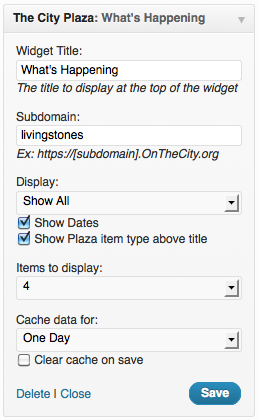
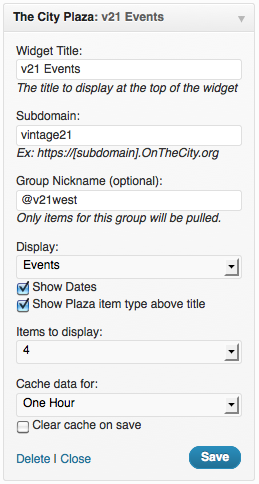
boom

diff --git a/thecity-plugins/wordpress/index.html b/thecity-plugins/wordpress/index.html
@@ -55,6 +55,11 @@ The title above this widget on your website.</p>
 The part of the URL before the “OnTheCity.org”.  For example in the URL http://livingstones.onthecity.org the subdomain would be “livingstones”.</p>
   </li>
   <li>
+    <p>Group Nickname (optional)<br>
+The group nickname to pull Plaza items for.<br>
+http://helpdesk.onthecity.org/entries/422776-group-nickname</p>
+  </li>
+  <li>
     <p>Show Display<br>
 Select the data to pull from the Plaza.</p>
   </li>
